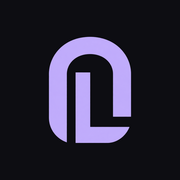
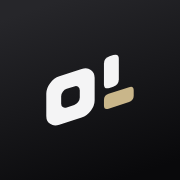
M9.1: install final OWNLEVEL brand assets
Runtime copies of docs/brand/ownlevel-marca (originals untouched; a test
keeps every copy byte-identical to its canonical source).

Mobile (app.json, Expo SDK 57 schema)
- iOS icon: light / dark / tinted (icon-1024*.png).
- Android adaptive icon: foreground + monochrome, background #09090B.
- Splash: isotype only, imageWidth 96, light #F3F1EC + dark #09090B images.
- Logo/isotype PNGs in assets/brand/logo for later UI.
- Legacy assets/images/ownlevel-app-icon.png removed (no consumers).

Web
- App Router conventions: favicon.ico, icon.svg (replaces icon.png),
  apple-icon.png. Manifest icons 192/512 + maskable 512 from public/brand;
  background/theme color and viewport themeColor from @brand/tokens.
- Isotype for login and BrandSymbol with its real aspect ratio.
- Legacy public/brand PNGs removed; README logo points to the canonical file.

Release identity (name, slug, bundle id, package, scheme, version) unchanged.

Changed region(s): [[0.25, 0.1944, 0.75, 0.8056], [0.0, 0.0, 0.3889, 0.1389]]

diff --git a/src/lib/brand.test.ts b/src/lib/brand.test.ts
@@ -1,28 +1,61 @@
-import { existsSync } from "node:fs";
-import { readFileSync } from "node:fs";
+import { createHash } from "node:crypto";
+import { existsSync, readFileSync } from "node:fs";
 import { join } from "node:path";
 import { describe, expect, it } from "vitest";
-import { brandAssets, brandSymbolSources } from "./brand";
+import { palette } from "@brand/tokens";
+import { brandAssets, brandSymbolSize, brandSymbolSources } from "./brand";
 import { ownlevelManifest, ownlevelMetadata } from "./brand-metadata";
 
+const root = process.cwd();
+const canon = (path: string) => join(root, "docs/brand/ownlevel-marca", path);
+const sha = (path: string) => createHash("sha256").update(readFileSync(path)).digest("hex");
+
+// Runtime copy → canonical source in docs/brand/ownlevel-marca (must stay byte-identical).
+const runtimeCopies: Record<string, string> = {
+  "public/brand/icon-192.png": "web/icon-192.png",
+  "public/brand/icon-512.png": "web/icon-512.png",
+  "public/brand/icon-maskable-512.png": "web/icon-maskable-512.png",
+  "public/brand/logo/isotipo-claro.png": "logo/png/isotipo-claro.png",
+  "public/brand/logo/isotipo-oscuro.png": "logo/png/isotipo-oscuro.png",
+  "src/app/favicon.ico": "web/favicon.ico",
+  "src/app/icon.svg": "web/favicon.svg",
+  "src/app/apple-icon.png": "web/apple-touch-icon.png",
+  "apps/mobile/assets/brand/app-icon/ios/icon-1024.png": "app-icon/ios/icon-1024.png",
+  "apps/mobile/assets/brand/app-icon/ios/icon-1024-dark.png": "app-icon/ios/icon-1024-dark.png",
+  "apps/mobile/assets/brand/app-icon/ios/icon-1024-tinted.png": "app-icon/ios/icon-1024-tinted.png",
+  "apps/mobile/assets/brand/app-icon/android/adaptive-foreground.png": "app-icon/android/adaptive-foreground.png",
+  "apps/mobile/assets/brand/app-icon/android/adaptive-monochrome.png": "app-icon/android/adaptive-monochrome.png",
+  "apps/mobile/assets/brand/splash/splash-isotipo-claro.png": "splash/splash-isotipo-claro.png",
+  "apps/mobile/assets/brand/splash/splash-isotipo-oscuro.png": "splash/splash-isotipo-oscuro.png",
+  "apps/mobile/assets/brand/logo/isotipo-claro.png": "logo/png/isotipo-claro.png",
+  "apps/mobile/assets/brand/logo/isotipo-oscuro.png": "logo/png/isotipo-oscuro.png",
+  "apps/mobile/assets/brand/logo/logo-horizontal-claro.png": "logo/png/logo-horizontal-claro.png",
+  "apps/mobile/assets/brand/logo/logo-horizontal-oscuro.png": "logo/png/logo-horizontal-oscuro.png",
+};
+
 describe("identidad OWNLEVEL", () => {
-  it("usa la variante violeta oscura sobre UI clara y lavanda sobre UI oscura", () => {
+  it("usa el isotipo oficial: claro sobre UI clara y oscuro sobre UI oscura", () => {
     expect(brandSymbolSources).toEqual({
-      light: "/brand/ownlevel-symbol-on-light.png",
-      dark: "/brand/ownlevel-symbol-on-dark.png",
+      light: "/brand/logo/isotipo-claro.png",
+      dark: "/brand/logo/isotipo-oscuro.png",
     });
+    const png = readFileSync(join(root, "public", brandSymbolSources.light));
+    expect({ width: png.readUInt32BE(16), height: png.readUInt32BE(20) }).toEqual(brandSymbolSize);
   });
 
-  it("incluye todos los assets de marca locales", () => {
-    for (const assetPath of Object.values(brandAssets)) {
-      expect(existsSync(join(process.cwd(), "public", assetPath))).toBe(true);
+  it("las copias runtime son idénticas a la fuente canónica de marca", () => {
+    for (const [runtime, source] of Object.entries(runtimeCopies)) {
+      expect(existsSync(join(root, runtime)), runtime).toBe(true);
+      expect(sha(join(root, runtime)), runtime).toBe(sha(canon(source)));
     }
-    expect(existsSync(join(process.cwd(), "src/app/favicon.ico"))).toBe(true);
-    expect(existsSync(join(process.cwd(), "src/app/icon.png"))).toBe(true);
-    expect(existsSync(join(process.cwd(), "src/app/apple-icon.png"))).toBe(true);
+    for (const assetPath of Object.values(brandAssets)) {
+      expect(existsSync(join(root, "public", assetPath)), assetPath).toBe(true);
+    }
+    // One mechanism per asset: App Router file conventions for favicon / icon / apple-icon.
+    expect(existsSync(join(root, "src/app/icon.png"))).toBe(false);
   });
 
-  it("expone OWNLEVEL en metadata y manifest", () => {
+  it("expone OWNLEVEL en metadata y manifest con íconos y colores de marca", () => {
     expect(ownlevelMetadata.applicationName).toBe("OWNLEVEL");
     expect(ownlevelMetadata.title).toMatchObject({
       default: "OWNLEVEL",
@@ -33,20 +66,46 @@ describe("identidad OWNLEVEL", () => {
       name: "OWNLEVEL",
       short_name: "OWNLEVEL",
       start_url: "/home",
-      background_color: "#0d0d12",
-      theme_color: "#0d0d12",
+      display: "standalone",
+      orientation: "portrait",
+      lang: "es",
+      background_color: "#09090B",
+      theme_color: "#09090B",
       icons: [
         { src: brandAssets.appIcon192, sizes: "192x192", purpose: "any" },
         { src: brandAssets.appIcon512, sizes: "512x512", purpose: "any" },
+        { src: brandAssets.appIconMaskable512, sizes: "512x512", purpose: "maskable" },
       ],
     });
+    expect(ownlevelManifest().background_color).toBe(palette.dark.bg);
   });
 
-  it("usa los símbolos de marca canónicos en la nueva entrada", () => {
-    const loginSource = readFileSync(
-      join(process.cwd(), "src/app/(auth)/login/login-form.tsx"),
-      "utf8",
-    );
+  it("Expo usa los assets oficiales: ícono iOS claro/oscuro/teñido, adaptativo Android y splash por modo", () => {
+    const expo = JSON.parse(readFileSync(join(root, "apps/mobile/app.json"), "utf8")).expo;
+    const splash = expo.plugins.find((plugin: unknown) => Array.isArray(plugin) && plugin[0] === "expo-splash-screen")[1];
+    expect(expo.ios.icon).toEqual({
+      light: "./assets/brand/app-icon/ios/icon-1024.png",
+      dark: "./assets/brand/app-icon/ios/icon-1024-dark.png",
+      tinted: "./assets/brand/app-icon/ios/icon-1024-tinted.png",
+    });
+    expect(expo.android.adaptiveIcon).toEqual({
+      backgroundColor: palette.dark.bg,
+      foregroundImage: "./assets/brand/app-icon/android/adaptive-foreground.png",
+      monochromeImage: "./assets/brand/app-icon/android/adaptive-monochrome.png",
+    });
+    expect(splash).toMatchObject({
+      image: "./assets/brand/splash/splash-isotipo-claro.png",
+      imageWidth: 96,
+      backgroundColor: palette.light.bg,
+      dark: { image: "./assets/brand/splash/splash-isotipo-oscuro.png", backgroundColor: palette.dark.bg },
+    });
+    const referenced = [expo.icon, expo.web.favicon, ...Object.values(expo.ios.icon), expo.android.adaptiveIcon.foregroundImage,
+      expo.android.adaptiveIcon.monochromeImage, splash.image, splash.dark.image] as string[];
+    for (const path of referenced) expect(existsSync(join(root, "apps/mobile", path)), path).toBe(true);
+  });
+
+  it("usa los símbolos de marca canónicos en la entrada", () => {
+    const loginSource = readFileSync(join(root, "src/app/(auth)/login/login-form.tsx"), "utf8");
     expect(loginSource).not.toContain("Appgym");
     expect(loginSource).toContain("brandAssets.symbolOnLight");
     expect(loginSource).toContain("brandAssets.symbolOnDark");

diff --git a/src/lib/brand.ts b/src/lib/brand.ts
@@ -1,12 +1,18 @@
+// Runtime copies of the canonical brand package (docs/brand/ownlevel-marca/), served
+// from public/brand. Favicon, icon.svg and apple-icon.png use the App Router file
+// conventions in src/app instead (one mechanism per asset).
 export const brandAssets = {
-  appIcon: "/brand/ownlevel-app-icon.png",
-  appIcon192: "/brand/ownlevel-app-icon-192.png",
-  appIcon512: "/brand/ownlevel-app-icon-512.png",
-  symbolOnLight: "/brand/ownlevel-symbol-on-light.png",
-  symbolOnDark: "/brand/ownlevel-symbol-on-dark.png",
-  lockupMobile: "/brand/ownlevel-lockup-mobile.png",
-  lockupHorizontal: "/brand/ownlevel-lockup-horizontal.png",
+  appIcon192: "/brand/icon-192.png",
+  appIcon512: "/brand/icon-512.png",
+  appIconMaskable512: "/brand/icon-maskable-512.png",
+  /** Isotype for light backgrounds (#18181B + #7D6A3C). */
+  symbolOnLight: "/brand/logo/isotipo-claro.png",
+  /** Isotype for dark backgrounds (white + #C9B68A). */
+  symbolOnDark: "/brand/logo/isotipo-oscuro.png",
 } as const;
+
+/** Intrinsic size of the isotype PNGs (keeps next/image aspect ratio exact). */
+export const brandSymbolSize = { width: 1024, height: 830 } as const;
 
 export const brandSymbolSources = {
   light: brandAssets.symbolOnLight,

diff --git a/src/app/(auth)/login/login-form.tsx b/src/app/(auth)/login/login-form.tsx
@@ -5,7 +5,7 @@ import { LoaderCircle } from "lucide-react";
 import { useState } from "react";
 import { createClient } from "@/lib/supabase/client";
 import { Button } from "@/components/ui/button";
-import { brandAssets } from "@/lib/brand";
+import { brandAssets, brandSymbolSize } from "@/lib/brand";
 import {
   googleOAuthRequest,
   PUBLIC_AUTH_ERROR_MESSAGE,
@@ -61,16 +61,16 @@ export function LoginForm({ authError }: LoginFormProps) {
         <div className="flex items-center gap-3">
           <Image
             src={brandAssets.symbolOnLight}
-            width={99}
-            height={128}
+            width={brandSymbolSize.width}
+            height={brandSymbolSize.height}
             alt=""
             aria-hidden
             className="h-12 w-auto object-contain dark:hidden"
           />
           <Image
             src={brandAssets.symbolOnDark}
-            width={99}
-            height={128}
+            width={brandSymbolSize.width}
+            height={brandSymbolSize.height}
             alt=""
             aria-hidden
             className="hidden h-12 w-auto object-contain dark:block"

diff --git a/src/components/brand/brand-symbol.tsx b/src/components/brand/brand-symbol.tsx
@@ -1,5 +1,5 @@
 import Image from "next/image";
-import { brandSymbolSources } from "@/lib/brand";
+import { brandSymbolSize, brandSymbolSources } from "@/lib/brand";
 import { cn } from "@/lib/utils";
 
 type BrandSymbolProps = {
@@ -18,15 +18,15 @@ export function BrandSymbol({ className, decorative = false }: BrandSymbolProps)
     >
       <Image
         src={brandSymbolSources.light}
-        width={99}
-        height={128}
+        width={brandSymbolSize.width}
+        height={brandSymbolSize.height}
         alt=""
         className="h-full w-auto max-w-full object-contain dark:hidden"
       />
       <Image
         src={brandSymbolSources.dark}
-        width={99}
-        height={128}
+        width={brandSymbolSize.width}
+        height={brandSymbolSize.height}
         alt=""
         className="hidden h-full w-auto max-w-full object-contain dark:block"
       />

diff --git a/src/lib/brand-metadata.ts b/src/lib/brand-metadata.ts
@@ -1,4 +1,5 @@
 import type { Metadata, MetadataRoute } from "next";
+import { palette } from "@brand/tokens";
 import { brandAssets } from "./brand";
 
 export const ownlevelMetadata = {
@@ -26,8 +27,8 @@ export function ownlevelManifest(): MetadataRoute.Manifest {
     start_url: "/home",
     display: "standalone",
     orientation: "portrait",
-    background_color: "#0d0d12",
-    theme_color: "#0d0d12",
+    background_color: palette.dark.bg,
+    theme_color: palette.dark.bg,
     lang: "es",
     icons: [
       {
@@ -41,6 +42,12 @@ export function ownlevelManifest(): MetadataRoute.Manifest {
         sizes: "512x512",
         type: "image/png",
         purpose: "any",
+      },
+      {
+        src: brandAssets.appIconMaskable512,
+        sizes: "512x512",
+        type: "image/png",
+        purpose: "maskable",
       },
     ],
   };

diff --git a/src/app/layout.tsx b/src/app/layout.tsx
@@ -4,6 +4,7 @@ import { Analytics } from "@vercel/analytics/next";
 import { SpeedInsights } from "@vercel/speed-insights/next";
 import { ThemeProvider } from "@/components/providers/theme-provider";
 import { THEME_INIT_INLINE_SCRIPT } from "@/lib/app-theme";
+import { palette } from "@brand/tokens";
 import { ownlevelMetadata } from "@/lib/brand-metadata";
 import "./globals.css";
 
@@ -25,8 +26,8 @@ export const viewport: Viewport = {
   maximumScale: 1,
   viewportFit: "cover",
   themeColor: [
-    { media: "(prefers-color-scheme: light)", color: "oklch(0.98 0.003 285)" },
-    { media: "(prefers-color-scheme: dark)", color: "oklch(0.155 0.004 285)" },
+    { media: "(prefers-color-scheme: light)", color: palette.light.bg },
+    { media: "(prefers-color-scheme: dark)", color: palette.dark.bg },
   ],
 };
 

diff --git a/docs/mobile/m9-brand-polish-plan.md b/docs/mobile/m9-brand-polish-plan.md
@@ -282,7 +282,7 @@ Misma marca y tokens que Mobile, con patrones web propios: sin tab bar flotante,
 | 0 | M9.0 | Baseline verde de la raíz (2 tests + lint preexistente) | No |
 | 1 | M9.1 | ✅ M9.1A: `packages/brand` (re-export de los tokens de la marca), alias Web, puente Mobile + Metro, tests | No |
 | 2 | M9.1 | ✅ M9.1B: tema Mobile sobre `packages/brand` (paleta, tipografía, radios, espacios; alias deprecados `success`/`warning`/`unavailable`/`overline`). Pendiente para M9.2: `numeric` y consumidores de los alias | No |
-| 3 | M9.1 | Assets nativos: ícono (claro/oscuro/teñido, adaptativo), splash, isotipo, `expo-linear-gradient` (+ `expo-glass-effect` directo / `react-native-svg` según decisiones) | **Sí (uno solo)** |
+| 3 | M9.1 | ✅ M9.1D: assets de marca instalados. Mobile: ícono iOS claro/oscuro/teñido, adaptativo Android (+ monocromo, fondo #09090B), splash por modo (isotipo, 96, #F3F1EC/#09090B), logos en `assets/brand/logo`. Web: `favicon.ico`, `icon.svg`, `apple-icon.png` (convención App Router), manifest 192/512/maskable, colores de marca. Legacy runtime borrado. Pendiente: `AppIcon name="brand"` → isotipo (M9.2/M9.3, Home), `.icon` de Icon Composer (M9.5), carpeta `Logos/` (limpieza aparte) | **Sí** (ícono y splash son nativos: prebuild + rebuild) |
 | 4 | M9.1 | ✅ M9.1C: íconos por plataforma (SF Symbols / Lucide) + haptics por evento + interruptor en Ajustes | Android: sí (react-native-svg) |
 | 5 | M9.2 | Controles base: Button, Input, chips, selección, filas, Surface | No |
 | 6 | M9.2 | Feedback + glosario de copy de recuperación + EmptyState EJEMPLO + skeleton | No |

diff --git a/README.md b/README.md
@@ -1,5 +1,5 @@
 <p align="center">
-  <img src="./public/brand/ownlevel-lockup-horizontal.png" alt="OWNLEVEL" width="340" />
+  <img src="./docs/brand/ownlevel-marca/logo/png/logo-horizontal-claro.png" alt="OWNLEVEL" width="340" />
 </p>
 
 <p align="center">
